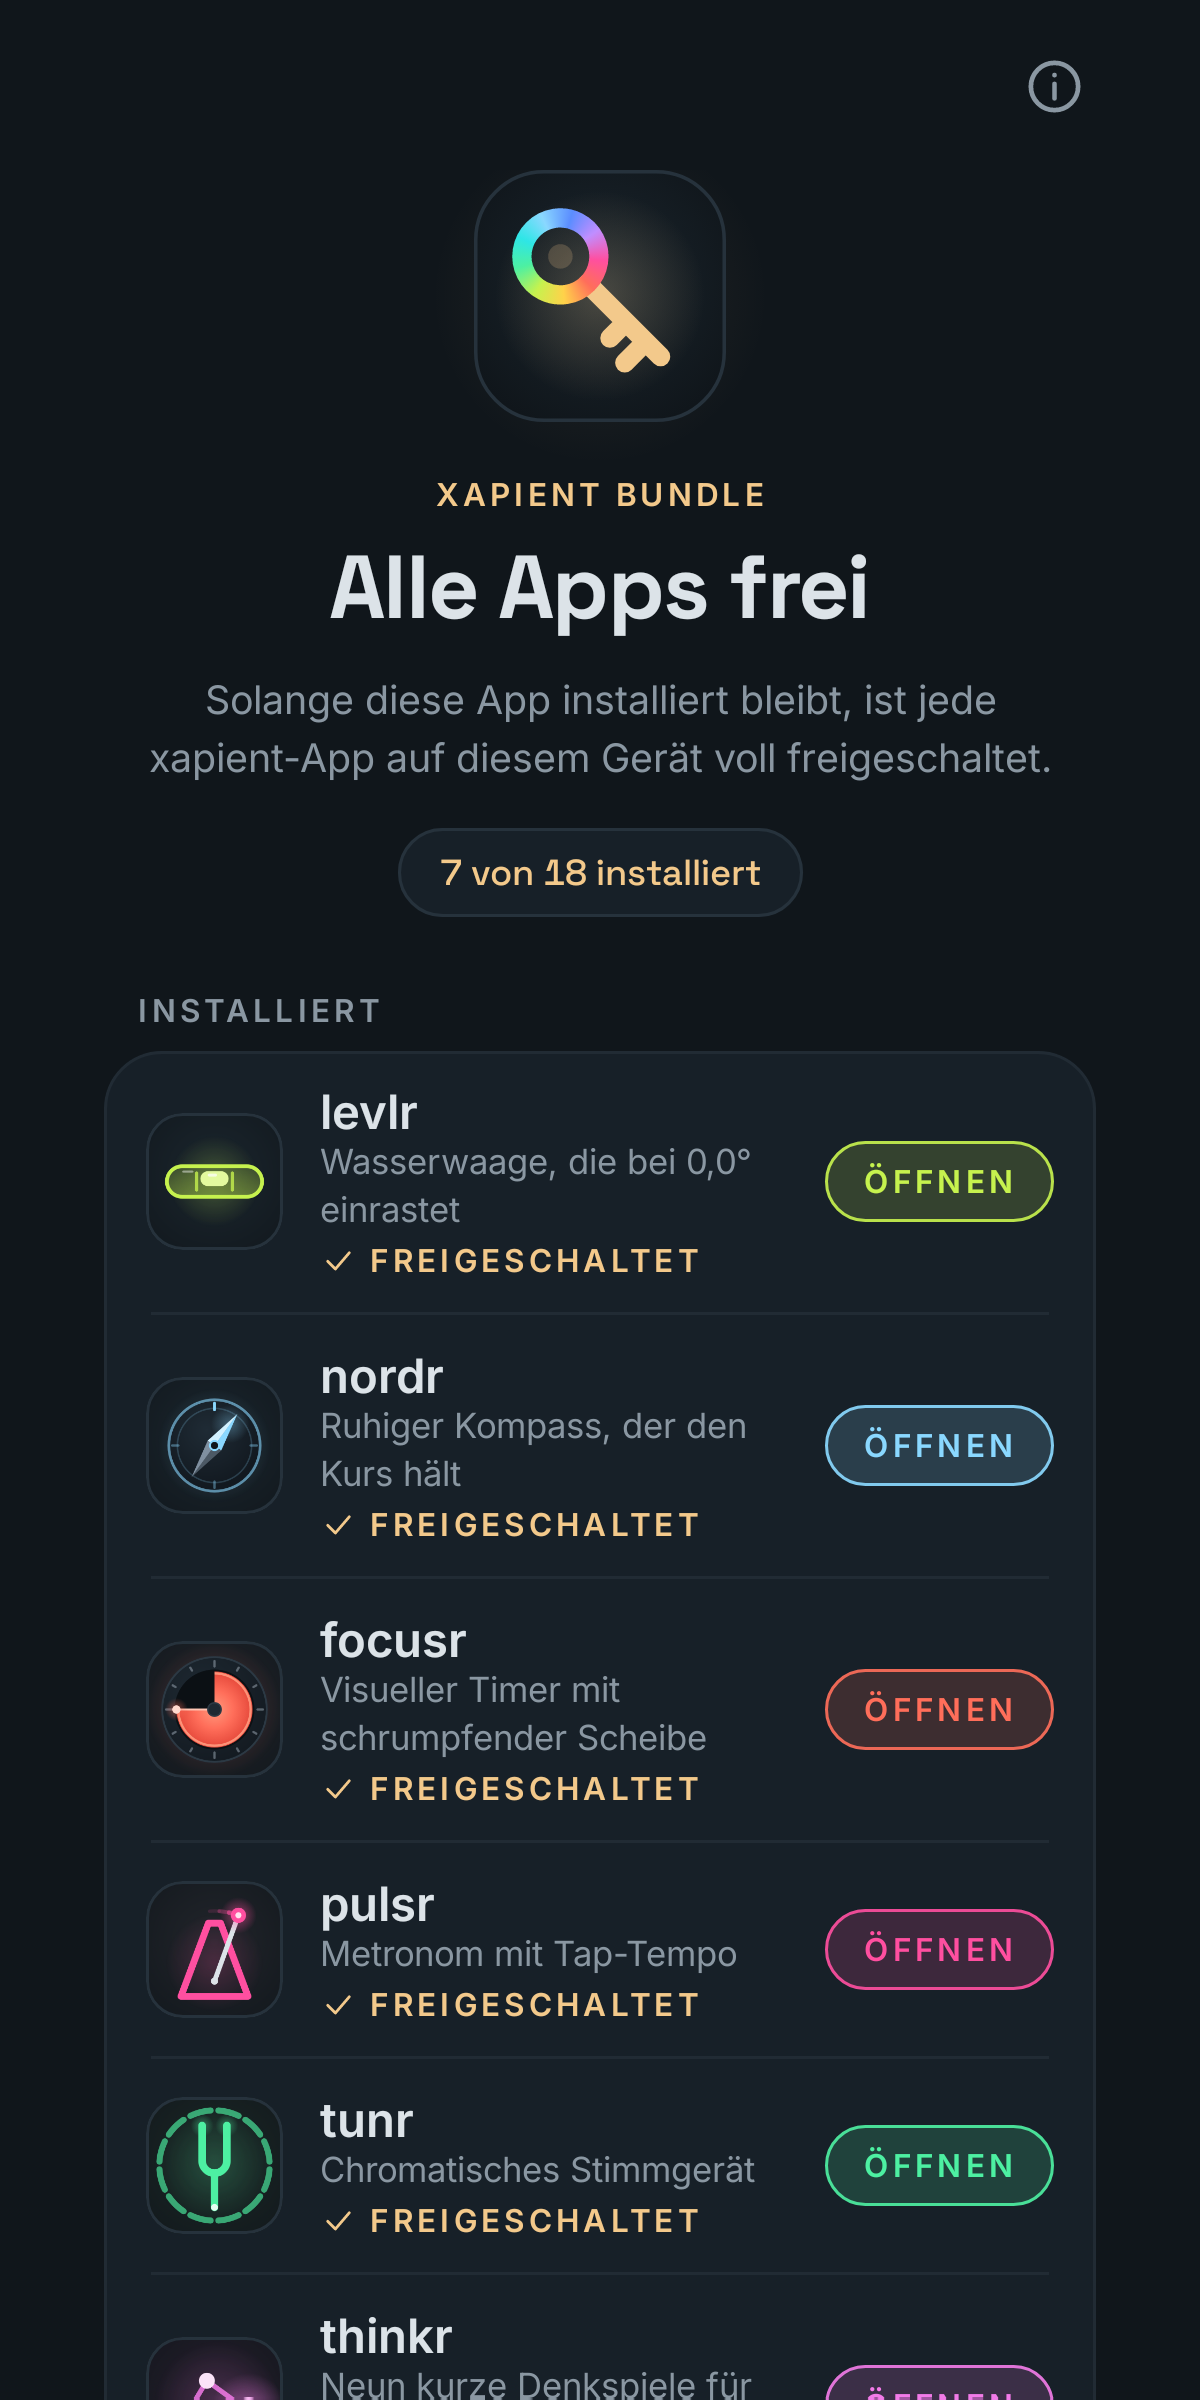
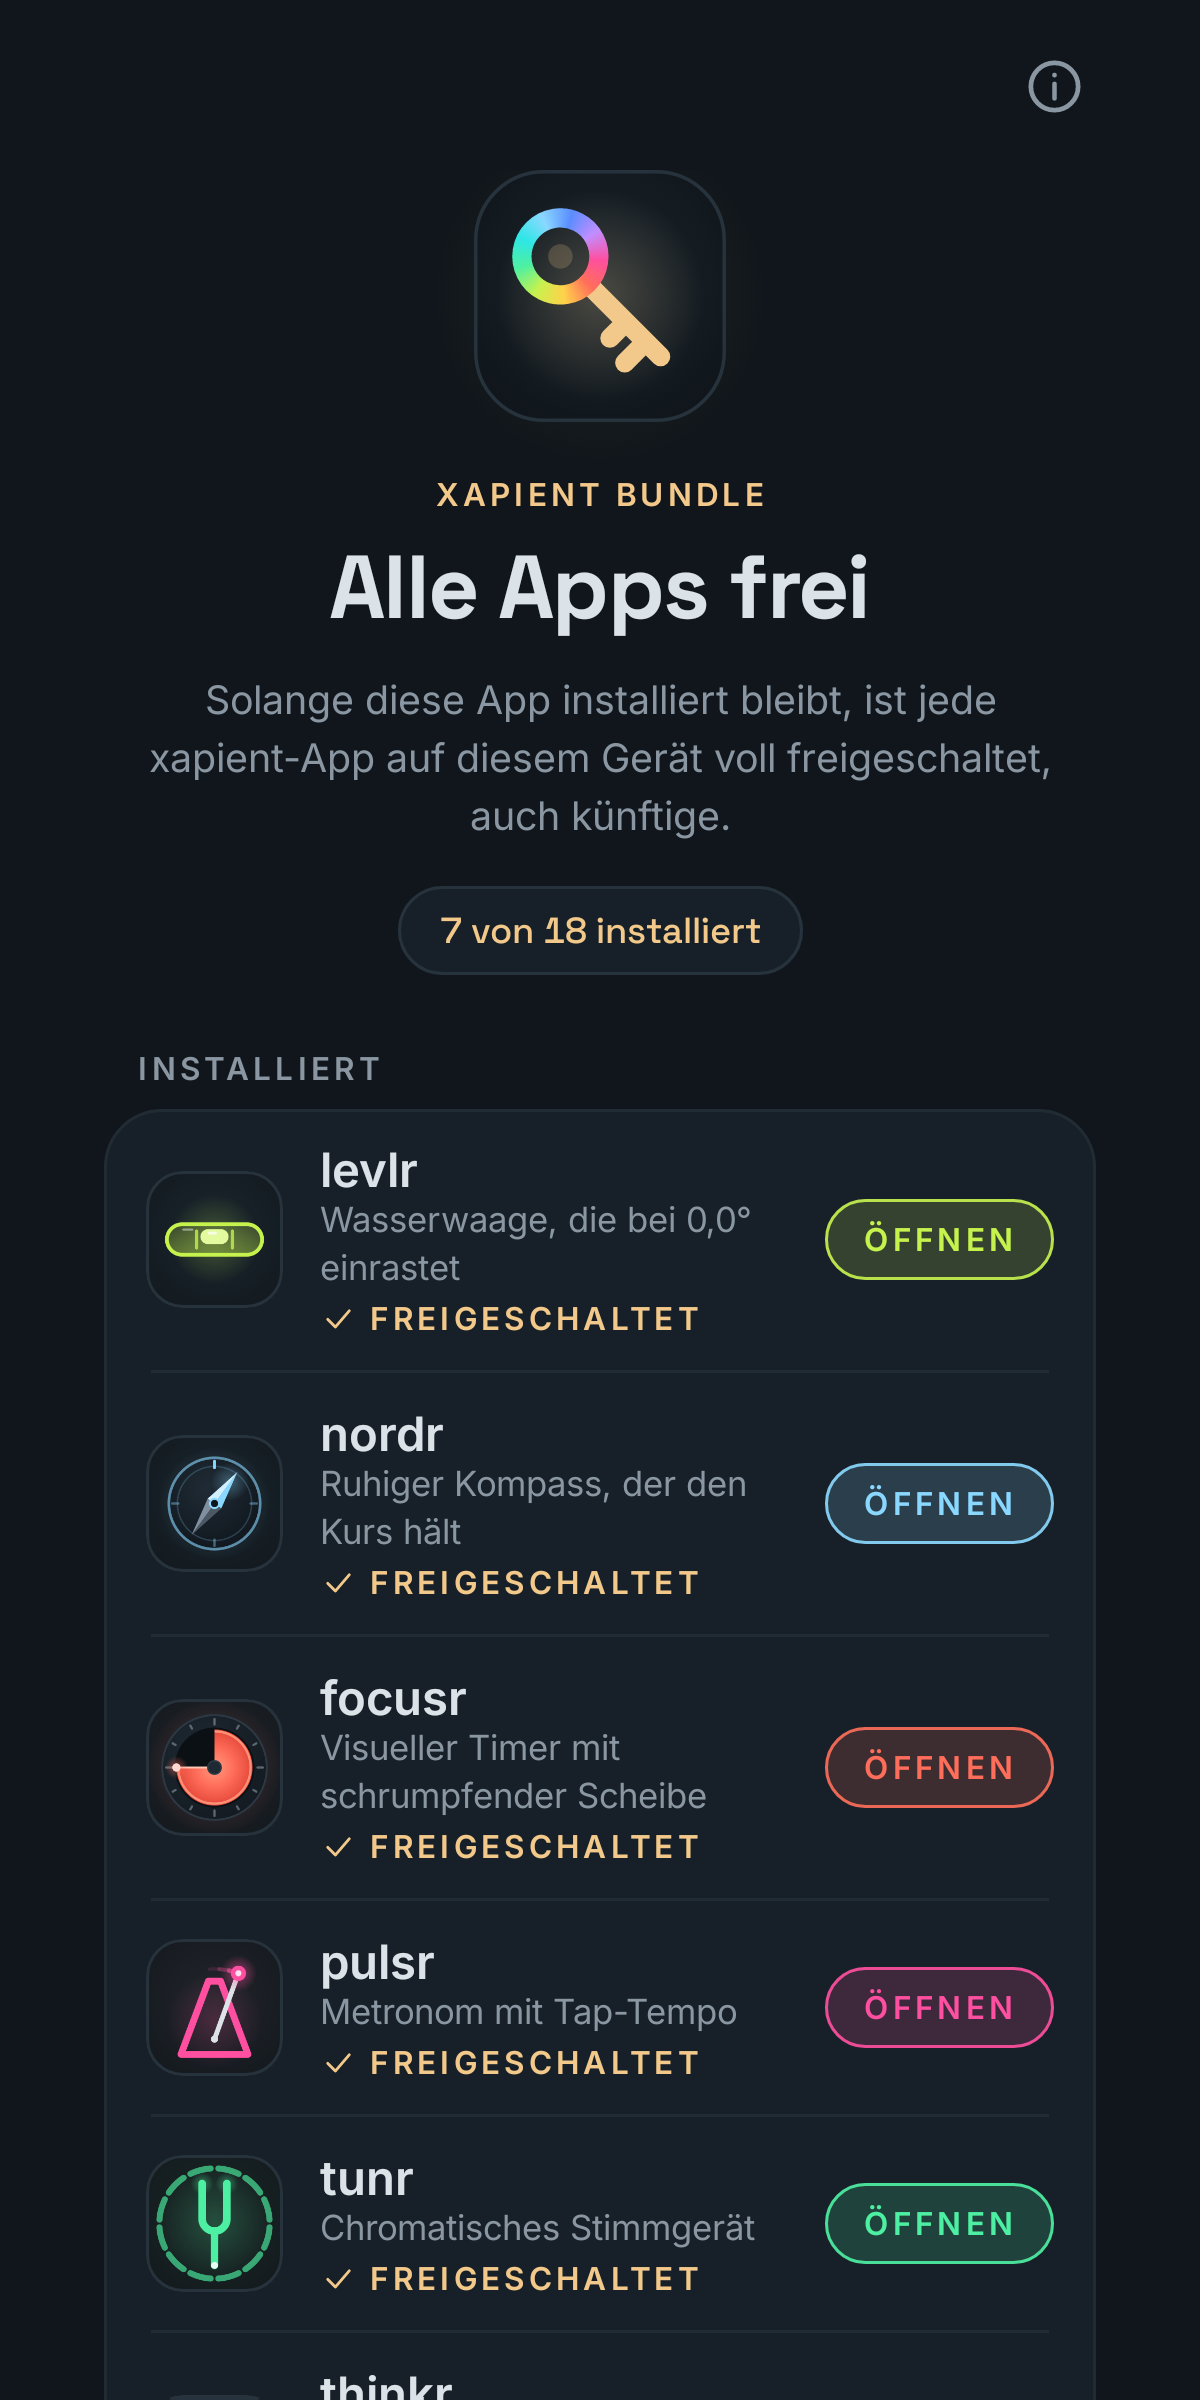
bundle: kuenftige Apps inklusive, Store-Grafiken

diff --git a/apps/bundle/src/test/kotlin/solutions/xapient/bundle/CatalogTest.kt b/apps/bundle/src/test/kotlin/solutions/xapient/bundle/CatalogTest.kt
@@ -35,5 +35,12 @@ class CatalogTest {
 
     @Test fun onlyGamesAreFree() = assertEquals(setOf("moovr", "glidr"), Catalog.filter { it.free }.map { it.id }.toSet())
 
+    // Hinweis im Dankes-Screen nennt die Zahl der Bezahl-Apps
+    @Test fun thanksHintCountMatchesPaidApps() {
+        val paid = Catalog.count { !it.free }.toString()
+        val hint = RuntimeEnvironment.getApplication().getString(solutions.xapient.aapps.core.billing.R.string.billing_bundle)
+        assertTrue(hint, Regex("\\b$paid\\b").containsMatchIn(hint))
+    }
+
     @Test fun nothingInstalledInTest() = assertEquals(emptySet<String>(), installedApps(RuntimeEnvironment.getApplication()))
 }
